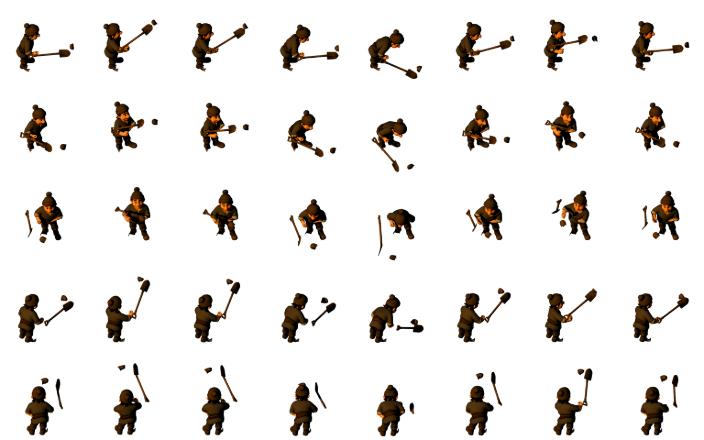
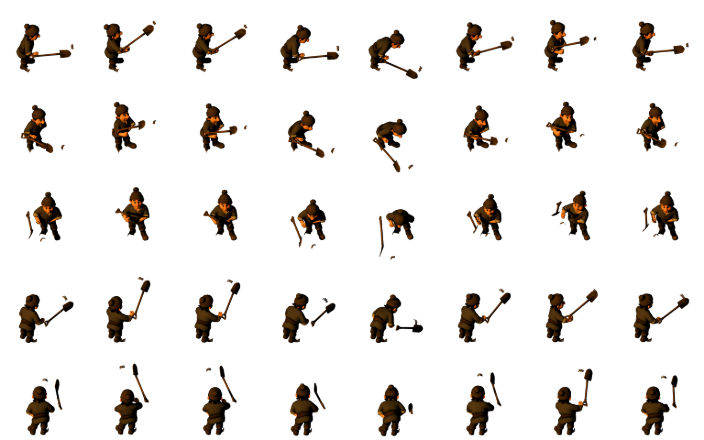
v305: Traegertempo gleichmaessig, Planierer traegt die Schaufel anders
Zwei Befunde des Nutzers, zwei getrennte Ursachen.

DER TRAEGER "x-mal schneller". Gemessen (tools/tempomessung.mjs: sechs
Strassen, fuenf Betriebe, 12 000 Takte, Bildweg je Takt): die Arbeiter
laufen mit KONSTANT 4,80 px je Takt - vom zehnten bis zum
neunundneunzigsten Hundertstel derselbe Wert. Der Traeger schwankte
zwischen 2,46 und 12,32, also um den Faktor fuenf gegen sich selbst und
bis 2,6-fach gegen einen Arbeiter.

Ursache: c.pos ist ein KNOTENINDEX, und 0,2 Index je Takt heisst fuenf
Takte je Strassenstueck - egal ob das Stueck 12 oder 62 Bildpunkte lang
ist. Auf langen Stuecken raste er, auf kurzen kroch er. Zwei Stellen
mussten nachziehen:

  sim.js  rechnet den Index jetzt aus einem festen BILDWEG (CARRY_PX =
          7,2 px/Takt), Stueck fuer Stueck abgerechnet - laeuft ein Takt
          ueber eine Stueckgrenze, wird der Rest mit der Laenge des
          naechsten Stuecks weitergerechnet.
  render.js bildet die Position nach BOGENLAENGE ab statt stueckweise
          linear ueber den Index. Der gezeichnete Pfad ist naemlich ein
          anderer als der Knotenpfad: seine Enden liegen auf der
          Tuerposition, die Zwischenpunkte sind gestreut. Ohne diesen
          Schritt kam die Ungleichheit ueber das Zeichnen zurueck
          (gemessen: wieder 2,8 bis 17,6).

Nachher, nach Zustand getrennt (Fahrt gegen das bewusst langsame
Zurueckdriften zur Streckenmitte): Fahrt 8,06 px/Takt im Median, Band
[…]

diff --git a/js/sim.js b/js/sim.js
@@ -13,7 +13,28 @@ const FLAG_CAP = 8;
 const TABU_DAUER = 3000;
 // Wie stark der Verkehrswert einer Strasse alle 300 Ticks abklingt.
 const VERKEHR_ZERFALL = 0.985;
-const CARRY_SPEED = 0.2;              // Knoten pro Tick
+// TRAEGERTEMPO IN BILDPUNKTEN JE TAKT, nicht in Knoten (T21).
+//
+// Nutzerbefund: "der traeger ist x-mal schneller". Gemessen
+// (tools/tempomessung.mjs, 12 000 Takte, sechs Strassen, fuenf Betriebe):
+// die Arbeiter laufen mit KONSTANT 4,80 px je Takt - vom zehnten bis zum
+// neunundneunzigsten Hundertstel derselbe Wert. Der Traeger schwankte
+// zwischen 2,46 und 12,32 px je Takt, also um den Faktor fuenf gegen sich
+// selbst und bis 2,6-fach gegen einen Arbeiter.
+//
+// Ursache: c.pos ist ein KNOTENINDEX auf der Strasse, und 0,2 Index je
+// Takt heisst fuenf Takte je Strassenstueck - egal, ob das Stueck 12 oder
+// 62 Bildpunkte lang ist. Auf langen Stuecken raste der Traeger, auf
+// kurzen kroch er.
+//
+// Jetzt wird der Index aus einem festen BILDWEG gerechnet. Der Wert ist
+// nicht gegriffen: 7,2 px je Takt ist genau der bisherige Mittelwert
+// (0,2 mal die mittlere Stuecklaenge von 36 px). Die Laufzeit einer
+// Strasse bleibt damit im Mittel dieselbe wie bisher - sie wird nur
+// gleichmaessig. Gegen einen Arbeiter sind es saubere 1,5-fach: auf der
+// Strasse geht es schneller voran als querfeldein, und das sieht man auch.
+const CARRY_PX = 7.2;                 // Bildpunkte pro Takt
+const CARRY_SPEED = 0.2;              // ALT: Knoten pro Tick (nur noch fuer Altstaende)
 // Wie lange darf eine Figur an EINEM Weg haengen, bevor sie aufgibt und
 // das Beste aus ihrer Lage macht? 1800 Takte sind drei Spielminuten -
 // lang genug, dass kein normaler Weg daran scheitert, kurz genug, dass
@@ -2546,13 +2567,20 @@ export class Game {
         // leichte Heimkehr zur Mitte
         if(c.state==='idle'){
           const mid=lastIx/2;
-          if(Math.abs(c.pos-mid)>0.05) c.pos += Math.sign(mid-c.pos)*CARRY_SPEED*0.4;
+          if(Math.abs(c.pos-mid)>0.05){
+            const ri=Math.sign(mid-c.pos);
+            c.pos += ri*this.strassenSchritt(r, c.pos, ri, CARRY_PX*0.4);
+          }
         }
       }
-      // Esel beschleunigen die Straße, Schiffe sind gemächlicher
-      const spd=CARRY_SPEED*(r.hasDonkey?1.5:1)*(r.isSea?0.85:1);
+      // Esel beschleunigen die Straße, Schiffe sind gemächlicher.
+      // spdPx ist ein BILDWEG; in Indexschritte umgerechnet wird erst auf
+      // dem Stueck, auf dem der Traeger gerade steht (strassenSchritt).
+      const spdPx=CARRY_PX*(r.hasDonkey?1.5:1)*(r.isSea?0.85:1);
       if(c.state==='toPick'){
-        c.pos += Math.sign(c.targetIx-c.pos)*spd;
+        const ri=Math.sign(c.targetIx-c.pos);
+        const spd=this.strassenSchritt(r, c.pos, ri, spdPx);
+        c.pos += ri*spd;
         if(Math.abs(c.pos-c.targetIx)<spd){ c.pos=c.targetIx; c.state='pickup'; }
       }
       if(c.state==='pickup'){
@@ -2567,7 +2595,9 @@ export class Game {
         r.traffic=(r.traffic||0)+1;      // Verkehr zählen (Eselzucht-Ziel)
       }
       if(c.state==='carry'){
-        c.pos += Math.sign(c.targetIx-c.pos)*spd;
+        const ri=Math.sign(c.targetIx-c.pos);
+        const spd=this.strassenSchritt(r, c.pos, ri, spdPx);
+        c.pos += ri*spd;
         if(Math.abs(c.pos-c.targetIx)<spd){
           c.pos=c.targetIx;
           const f=r.path[c.targetIx];
@@ -3300,6 +3330,37 @@ export class Game {
       if(d<0.001){ dx=1; dy=0; d=1; }      // exakt im Mittelpunkt: irgendwohin
       u.x=ox+dx/d*R; u.y=oy+dy/d*R;
     }
+  }
+  // Wie viele Index-Einheiten auf DIESER Strasse entsprechen einem Bildweg
+  // von spdPx Punkten? Die Strassenstuecke sind unterschiedlich lang (12
+  // bis 62 px gemessen), ein fester Indexschritt ergibt also ein
+  // ungleiches Tempo. Gerechnet wird auf dem Stueck, auf dem der Traeger
+  // gerade steht.
+  // Sie rechnet den Bildweg STUECK FUER STUECK ab: laeuft der Takt ueber
+  // eine Stueckgrenze, wird der Rest auf dem naechsten Stueck mit dessen
+  // eigener Laenge weitergerechnet. Ohne diese Teilung blieben zehn
+  // Prozent der Takte daneben (gemessen: p99 11,8 statt 7,2 - genau die
+  // Takte, die eine Grenze kreuzen).
+  strassenSchritt(r, pos, dir, spdPx){
+    const m=this.map, n=r.path.length;
+    if(n<2 || spdPx<=0) return 0;
+    const laenge=(i)=>{
+      const [ax,ay]=m.worldPos(r.path[i]), [bx,by]=m.worldPos(r.path[i+1]);
+      const l=Math.hypot(bx-ax, by-ay);
+      return l>0.5? l : 52;
+    };
+    let p=pos, rest=spdPx, schutz=0;
+    while(rest>1e-6 && schutz++<64){
+      let i0=Math.floor(dir>=0? p : p-1e-9);
+      if(i0<0){ p=0; break; }
+      if(i0>n-2){ if(dir>=0){ p=n-1; break; } i0=n-2; }
+      const l=laenge(i0);
+      // bis zum Ende des laufenden Stuecks in Bildpunkten
+      const bisKante = dir>=0 ? (i0+1-p)*l : (p-i0)*l;
+      if(rest < bisKante || bisKante<=1e-9){ p += dir*rest/l; rest=0; }
+      else { p = dir>=0 ? i0+1 : i0; rest -= bisKante; }
+    }
+    return Math.abs(p-pos);
   }
   moveToward(u, tx, ty, speed){
     const dx=tx-u.x, dy=ty-u.y;

diff --git a/tools/posen.js b/tools/posen.js
@@ -711,14 +711,31 @@ export const POSEN = {
   // abgetasteten Werten ueber vier Spalten (Beleg uh_leveler.png): bei
   // -120/0/-25 zeigt der Stiel nach vorn-unten, am Kontakt steht das
   // Blatt im Boden.
+  // T21: die gemalte Schaufel wird UMGEHAENGT statt weggeworfen. Sie ist
+  // zu 100 % an R_ToeBase gewichtet und stand deshalb senkrecht neben
+  // dem rechten Fuss; bisher flog sie raus und ein prozeduraler Kasten
+  // trat an ihre Stelle. Das gemalte Blatt ist die bessere Grafik - es
+  // haengt nur am falschen Knochen. umhaengen() legt ihr oberes
+  // Stielende (greifer 1, laengste Achse ist y) auf die Bindeposition
+  // der rechten Faust und gewichtet sie allein dorthin.
+  //
+  // ZWEI HALTUNGEN, nicht eine. Mit dem Grabwinkel in allen Blaettern
+  // trug er die Schaufel im GEHEN waagerecht vor dem Bauch wie ein
+  // Gewehr (Nutzerbefund "was macht der planierer fuer bewegungen",
+  // Beleg lev_walk.png). Je zwoelf Winkel ueber vier Gehspalten
+  // abgetastet (tragen.png, tragen2.png): 180/0/0 legt den Stiel
+  // diagonal ueber die Brust, das Blatt an die Schulter - kompakte
+  // Silhouette, nichts steht seitlich ab. Beim Graben bleibt -120/0/-25.
+  //
+  // Die vierzehn Splitter, die ich zuerst mit umgehaengt hatte, sind
+  // NICHT Teil der Schaufel: isoliert sind sie ein eigener kleiner
+  // Klotz (Beleg s14.png), der am Werkzeug haengend neben dem Kopf
+  // schwebte. Sie fliegen raus.
   leveler:    { atk: SCHAUFELN,
-                umhaengen:{ ids:[372,238,406,448,231,99,111,464,465,94,105,390,310,1759,29,289,256,410,2,86,389,239,178,270,386,1711,138,309,400,363,375,557,621,72,411,443,398,408,474,23,224,261,419,342,325,355,444,762,39,169,68,208,104,120,121,110,198,125,287,299,332,356,379,361,403,404,385,402,450,451,579,2261,1819,1754,2316,2937,1760,1808,1820,2888,2941,2782,3119,1710,2117],
-                // die letzten vierzehn Splitter der Schaufel: ebenfalls
-                // R_ToeBase-dominant und ueber 0,12 vom Zeh entfernt.
-                // Sie standen frueher mit im Loeschsatz nicht drin und
-                // blieben als wandernder Fleck neben dem Fuss zurueck,
-                // sobald die Schaufel weg war.
-                bone:'R_Hand', greifer:1, rot:[-120,0,-25] } },
+                umhaengen:{ ids:[372,238,406,448,231,99,111,464,465,94,105,390,310,1759,29,289,256,410,2,86,389,239,178,270,386,1711,138,309,400,363,375,557,621,72,411,443,398,408,474,23,224,261,419,342,325,355,444,762,39,169,68,208,104,120,121,110,198,125,287,299,332,356,379,361,403,404,385,402,450,451,579],
+                            bone:'R_Hand', greifer:1, rot:[-120,0,-25],
+                            rotSet:{ walk:[180,0,0], idle:[180,0,0], trag:[180,0,0], flee:[180,0,0] } },
+                entfernen:[2261,1819,1754,2316,2937,1760,1808,1820,2888,2941,2782,3119,1710,2117] },
   // fisher: das Mesh enthaelt eine EIGENE Angel-Ausruestung, wie beim
   // Jaeger quer ueber Hand- UND Fussknochen verschmiert - sie zerriss in
   // jeder Pose zu Strichen neben Kopf, Ruecken und Beinen. Drei Teile

diff --git a/js/render.js b/js/render.js
@@ -11835,11 +11835,45 @@ export class Renderer {
       return [x+(hash01(n*3+1)-0.5)*6, yl+(hash01(n*5+2)-0.5)*5];
     });
   }
+  // NACH BOGENLAENGE, nicht nach Knotenindex (T21).
+  //
+  // Die Sim schiebt den Traeger seit T21 um einen festen BILDWEG je Takt
+  // ueber den Knotenpfad. Der gezeichnete Pfad ist aber ein anderer: seine
+  // beiden Enden liegen auf der TUERPOSITION statt auf dem Knoten, und die
+  // Zwischenpunkte sind um wenige Punkte gestreut (roadPts). Wer den Index
+  // stueckweise linear abbildet, uebertraegt diese Laengenunterschiede
+  // direkt aufs Tempo - gemessen blieb der Traeger dadurch zwischen 2,8 und
+  // 17,6 px je Takt, obwohl die Sim gleichmaessig lief.
+  //
+  // Darum: Anteil der zurueckgelegten Bogenlaenge auf dem KNOTENPFAD
+  // ausrechnen und denselben Anteil auf dem GEZEICHNETEN Pfad abtragen.
+  // Beide Pfade haben dieselben Stuecke, nur andere Laengen - das Tempo auf
+  // dem Bildschirm ist damit je Strasse konstant.
+  bogenlaengen(pts){
+    const c=[0];
+    for(let i=1;i<pts.length;i++)
+      c.push(c[i-1]+Math.hypot(pts[i][0]-pts[i-1][0], pts[i][1]-pts[i-1][1]));
+    return c;
+  }
   roadPos(r, pos){
     const pts=this.roadPts(r);
-    const i0=Math.max(0,Math.min(pts.length-1,Math.floor(pos))), f=pos-Math.floor(pos);
-    const a=pts[i0], b=pts[Math.min(i0+1,pts.length-1)];
-    return [a[0]+(b[0]-a[0])*f, a[1]+(b[1]-a[1])*f];
+    if(pts.length<2) return pts[0]||[0,0];
+    const m=this.game.map;
+    // Bogenlaenge auf dem Knotenpfad bis pos
+    const kn=r.path.map(n=>m.worldPos(n));
+    const ck=this.bogenlaengen(kn);
+    const gesamtK=ck[ck.length-1]||1;
+    const i0=Math.max(0,Math.min(kn.length-2,Math.floor(pos)));
+    const f0=Math.max(0,Math.min(1,pos-i0));
+    const sK=ck[i0]+(ck[i0+1]-ck[i0])*f0;
+    // denselben Anteil auf dem gezeichneten Pfad
+    const cd=this.bogenlaengen(pts);
+    const ziel=(sK/gesamtK)*cd[cd.length-1];
+    let j=0; while(j<cd.length-2 && cd[j+1]<ziel) j++;
+    const seg=cd[j+1]-cd[j];
+    const t=seg>1e-6 ? (ziel-cd[j])/seg : 0;
+    const a=pts[j], b=pts[j+1];
+    return [a[0]+(b[0]-a[0])*t, a[1]+(b[1]-a[1])*t];
   }
   drawObj(g, m, i, o){
     const [x,yRoh]=m.worldPos(i);

diff --git a/tools/bake-sprites.html b/tools/bake-sprites.html
@@ -509,9 +509,29 @@ window.umhaengen=(toolIds, boneName, opt={})=>{
   const uni=(a,b)=>{ a=find(a); b=find(b); if(a!==b) parent[a]=b; };
   for(let t=0;t<idx.length;t+=3){ uni(idx[t],idx[t+1]); uni(idx[t+1],idx[t+2]); }
   const soll=new Set(toolIds.map(Number));
-  const vs=[];
-  for(let i=0;i<pos.count;i++) if(soll.has(find(i))) vs.push(i);
+  let vs=[];
+  if(sm.userData.__wzVs) vs=sm.userData.__wzVs;      // Liste vom ersten Mal
+  else {
+    for(let i=0;i<pos.count;i++) if(soll.has(find(i))) vs.push(i);
+    sm.userData.__wzVs=vs;
+  }
   if(!vs.length) return 'KEINE VERTICES';
+  // WIEDERHOLBAR MACHEN. Der Aufruf verschiebt Vertices; ein zweiter Aufruf
+  // mit einem anderen Winkel wuerde sonst auf dem Ergebnis des ersten
+  // aufsetzen. Gebraucht wird das, weil das Werkzeug je Blattsatz anders
+  // gehalten wird: im Gehen geschultert, beim Graben zum Boden. Also die
+  // Ausgangslage einmal merken und jedes Mal von dort losrechnen.
+  if(!sm.userData.__wzOrig){
+    const o=new Map();
+    for(const i of vs) o.set(i, [pos.getX(i),pos.getY(i),pos.getZ(i),
+                                 nor?nor.getX(i):0, nor?nor.getY(i):0, nor?nor.getZ(i):0]);
+    sm.userData.__wzOrig=o;
+  } else {
+    for(const [i,o] of sm.userData.__wzOrig){
+      pos.setXYZ(i,o[0],o[1],o[2]);
+      if(nor) nor.setXYZ(i,o[3],o[4],o[5]);
+    }
+  }
   // 2. laengste Achse
   const mn=[1e9,1e9,1e9], mx=[-1e9,-1e9,-1e9];
   for(const i of vs) for(let d=0;d<3;d++){

diff --git a/sw.js b/sw.js
@@ -6,7 +6,7 @@
 // Server längst die neue auslieferte. Beim Installieren wird zusätzlich am
 // HTTP-Cache vorbei geladen (cache:'reload'), sonst holt sich der neue
 // Serviceworker über die noch gültigen Cache-Header wieder die alten Bytes.
-const BUILD = 'v304';
+const BUILD = 'v305';
 const CACHE = 'neuland-' + BUILD;
 const FILES = [
   './', './index.html', './style.css', './manifest.webmanifest',
